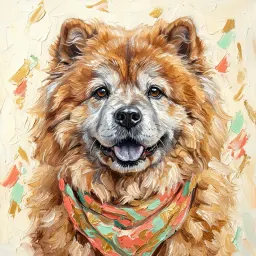
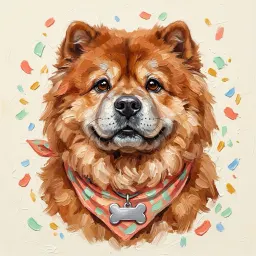
feat: 최종 유화 3장(프렌치불독 노령·차우차우 성견/아기) + 차우차우 노령 풀블리드로 교체, 옛 형식 캐릭터 해석 고정 (0.1.6)
- 새 그림: french-bulldog-senior, chow-chow, chow-chow-puppy → BREEDS 빈 칸 연결(차우차우 성견 칸 임시 비움 정리)
- chow-chow-senior.webp 는 같은 이름으로 풀블리드 재생성본 교체(저장 id 호환), 주소에 판 번호 ?v=2 로 브라우저 캐시 무효화
- 서비스워커 미리 받기는 cache: 'reload' 로 HTTP 캐시를 건너뜀, 미리 받기 31장
- 옛 형식 {종류}-{번호} 는 LEGACY_BREEDS(0.1.6-19 운영 표)로만 읽어 그림이 늘어도 불변(운영 대비 360가지 변동 0, 고정 안 하면 120가지 변동)
- 운영 해석 결과표 test/fixtures/legacy-avatar-0.1.6-19.json 으로 회귀 시험
- 캐시 쿼리 0.1.6-20, 서비스워커 v26

diff --git a/app.js b/app.js
@@ -1,4 +1,4 @@
-import { mountShelter } from './shelter.js?v=0.1.6-18';
+import { mountShelter } from './shelter.js?v=0.1.6-20';
 import { ROLE_LABEL, DAY_NOTE, policyText, nextLoginText } from './role-policy.js?v=0.1.6';
 // 꼬리길 모바일 웹. 로그인·세션은 frontend-book-walking/auth.js(= frontend-go-fishing/auth.js)를 그대로 쓴다(토큰은 sessionStorage, 서버가 만료 최종 판단).
 import { errText } from './errors.js?v=0.1.6';
@@ -65,15 +65,32 @@ const BREEDS = {
   saint_bernard:  { size: 'large',  brachy: true,  doubleCoat: true,  label: '세인트버나드', art: ['saint-bernard'], ages: { puppy: ['saint-bernard-puppy'], senior: ['saint-bernard-senior'] } },
   husky:          { size: 'large',  brachy: false, doubleCoat: true,  label: '허스키',       art: ['husky'], ages: { puppy: ['husky-puppy'], senior: ['husky-senior'] } },
   samoyed:        { size: 'large',  brachy: false, doubleCoat: true,  label: '사모예드',     art: [], ages: {} },
-  chow_chow:      { size: 'medium', brachy: true,  doubleCoat: true,  label: '차우차우',     art: [], ages: { senior: ['chow-chow-senior'] } }, // 성견·아기 그림은 아직 없음: 노령 그림을 성견 칸에 쓰지 않고 비워 둔다
+  chow_chow:      { size: 'medium', brachy: true,  doubleCoat: true,  label: '차우차우',     art: ['chow-chow'], ages: { puppy: ['chow-chow-puppy'], senior: ['chow-chow-senior'] } },
   jindo:          { size: 'medium', brachy: false, doubleCoat: true,  label: '진돗개',       art: [], ages: {} },
   shiba:          { size: 'medium', brachy: false, doubleCoat: true,  label: '시바',         art: ['shiba'], ages: { puppy: ['shiba-puppy'], senior: ['shiba-senior'] } },
-  french_bulldog: { size: 'small',  brachy: true,  doubleCoat: false, label: '프렌치불독',   art: ['french-bulldog'], ages: { puppy: ['french-bulldog-puppy'] } },
+  french_bulldog: { size: 'small',  brachy: true,  doubleCoat: false, label: '프렌치불독',   art: ['french-bulldog'], ages: { puppy: ['french-bulldog-puppy'], senior: ['french-bulldog-senior'] } },
   pug:            { size: 'small',  brachy: true,  doubleCoat: false, label: '퍼그',         art: ['pug'], ages: { puppy: ['pug-puppy'], senior: ['pug-senior'] } },
   shih_tzu:       { size: 'small',  brachy: true,  doubleCoat: true,  label: '시츄',         art: ['shih-tzu'], ages: { puppy: ['shih-tzu-puppy'], senior: ['shih-tzu-senior'] } },
   chihuahua:      { size: 'small',  brachy: false, doubleCoat: false, label: '치와와',       art: [], ages: {} },
   dachshund:      { size: 'small',  brachy: false, doubleCoat: false, label: '닥스훈트',     art: [], ages: {} }
 };
+// 옛 형식 {종류}-{1~5} 해석 고정(#34): 그림 이름 저장(#26)이 배포될 때의 운영 후보 표(97d1326~d4185b8, 0.1.6-17~19) 그대로.
+// 옛 형식 아이는 이 표로만 후보 순번을 읽으므로 위 BREEDS 에 그림이 늘어도 운영에서 보이던 그림이 바뀌지 않는다. 이 표는 고치지 말 것.
+const LEGACY_BREEDS = Object.freeze({
+  retriever:      { size: 'large',  brachy: false, doubleCoat: true,  label: '리트리버',     art: ['retriever'], ages: {} },
+  corgi:          { size: 'medium', brachy: false, doubleCoat: true,  label: '코기',         art: ['corgi'], ages: {} },
+  pomeranian:     { size: 'small',  brachy: false, doubleCoat: true,  label: '포메',         art: ['pomeranian'], ages: {} },
+  poodle:         { size: 'small',  brachy: false, doubleCoat: false, label: '푸들',         art: ['poodle'], ages: {} },
+  bichon:         { size: 'small',  brachy: false, doubleCoat: false, label: '비숑',         art: ['bichon'], ages: {} },
+  maltese:        { size: 'small',  brachy: false, doubleCoat: false, label: '말티즈',       art: ['maltese-1', 'maltese-4', 'maltese-5', 'maltese-2', 'maltese-3'], ages: {} },
+  saint_bernard:  { size: 'large',  brachy: true,  doubleCoat: true,  label: '세인트버나드', art: ['saint-bernard'], ages: { puppy: ['saint-bernard-puppy'], senior: ['saint-bernard-senior'] } },
+  husky:          { size: 'large',  brachy: false, doubleCoat: true,  label: '허스키',       art: ['husky'], ages: { puppy: ['husky-puppy'], senior: ['husky-senior'] } },
+  chow_chow:      { size: 'medium', brachy: true,  doubleCoat: true,  label: '차우차우',     art: [], ages: { senior: ['chow-chow-senior'] } },
+  shiba:          { size: 'medium', brachy: false, doubleCoat: true,  label: '시바',         art: ['shiba'], ages: { puppy: ['shiba-puppy'], senior: ['shiba-senior'] } },
+  french_bulldog: { size: 'small',  brachy: true,  doubleCoat: false, label: '프렌치불독',   art: ['french-bulldog'], ages: { puppy: ['french-bulldog-puppy'] } },
+  pug:            { size: 'small',  brachy: true,  doubleCoat: false, label: '퍼그',         art: ['pug'], ages: { puppy: ['pug-puppy'], senior: ['pug-senior'] } },
+  shih_tzu:       { size: 'small',  brachy: true,  doubleCoat: true,  label: '시츄',         art: ['shih-tzu'], ages: { puppy: ['shih-tzu-puppy'], senior: ['shih-tzu-senior'] } }
+});
 const ART_NAME = { 'maltese-2': '말티 달리기', 'maltese-3': '말티 갸우뚱', 'maltese-4': '말티 윙크', 'maltese-5': '말티 리본' };
 const DEFAULT_CARICATURE = 'retriever'; // 모르는 값은 대표 마스코트
 const SIZE_RANK = { small: 0, medium: 1, large: 2 }, SIZE_KO = { small: '소형', medium: '중형', large: '대형' }, AGE_KO = { puppy: '강아지', adult: '성견', senior: '노령견' };
@@ -81,10 +98,10 @@ const AGE_PREFIX = { puppy: '아기 ', senior: '어르신 ' };
 /** 4가지 특성 → 후보(최대 5). 크기가 최우선: 크기가 두 단계 다르면(소형↔대형) 절대 넣지 않고, 같은 크기 → 한 단계 차이 순.
  *  그다음 단두종·이중모가 맞는 견종, 나이 전용 그림 순. 견종마다 대표 1장을 먼저 고르고 남는 칸만 같은 견종의 다른 그림으로 채운다.
  *  같은·이웃 크기 그림이 5장이 안 되면 다른 크기로 채우지 않고 후보 수를 줄인다. */
-function characterCandidates(d = {}) {
+function characterCandidates(d = {}, table = BREEDS) {
   const size = SIZE_RANK[d.size] != null ? d.size : 'medium', age = AGE_KO[d.age] ? d.age : 'adult';
   const flat = Boolean(d.flatFace), coat = Boolean(d.thickCoat), list = [];
-  for (const [order, [id, b]] of Object.entries(BREEDS).entries()) {
+  for (const [order, [id, b]] of Object.entries(table).entries()) {
     const gap = Math.abs(SIZE_RANK[b.size] - SIZE_RANK[size]); if (gap > 1) continue;
     // 그 나이 전용 그림이 있으면 그것만(같은 견종의 성견 그림 + 나이 변형을 또 넣지 않음), 없으면 성견 그림을 나이 변형으로
     const own = b.ages?.[age] ?? [], arts = own.length ? own : b.art; if (!arts.length) continue;
@@ -96,7 +113,7 @@ function characterCandidates(d = {}) {
   const tier = x => x.gap * 2 + (x.rank > 0 ? 1 : 0);
   list.sort((x, y) => tier(x) - tier(y) || y.score - x.score || x.order - y.order);
   return list.slice(0, 5).map(x => ({ art: x.art, breed: x.breed, ageVariant: x.dedicated ? null : (age === 'adult' ? null : age), ageBadge: age === 'adult' ? null : age,
-    label: (age === 'adult' ? '' : AGE_PREFIX[age]) + (ART_NAME[x.art] ?? BREEDS[x.breed].label) })); // 전용 그림도 '아기'·'어르신' 이름(은빛 필터는 변형에만)
+    label: (age === 'adult' ? '' : AGE_PREFIX[age]) + (ART_NAME[x.art] ?? table[x.breed].label) })); // 전용 그림도 '아기'·'어르신' 이름(은빛 필터는 변형에만)
 }
 const comboLabel = d => [SIZE_KO[d.size] ?? '중형', AGE_KO[d.age] ?? '성견', d.flatFace ? '단두종' : '', d.thickCoat ? '이중모' : ''].filter(Boolean).join(' · ');
 const kindOf = d => d?.flatFace ? 'flat' : d?.thickCoat ? 'coat' : (['small', 'medium', 'large'].includes(d?.size) ? d.size : 'medium');
@@ -111,13 +128,14 @@ function artEntry(art, d = {}) {
   return { art, breed, ageVariant: dedicated || age === 'adult' ? null : age, ageBadge: age === 'adult' ? null : age, label: (age === 'adult' ? '' : AGE_PREFIX[age]) + (ART_NAME[art] ?? b.label) };
 }
 const DEFAULT_CHARACTER = { art: DEFAULT_CARICATURE, breed: 'retriever', label: '리트리버', ageVariant: null };
-/** 저장 id → 보여 줄 그림. 그림 이름이면 그 그림 그대로(후보 순서와 무관), 옛 형식이면 그 아이 특성의 후보 중 그 순번(후보가 적으면 1번) */
+/** 저장 id → 보여 줄 그림. 그림 이름이면 그 그림 그대로(후보 순서와 무관), 옛 형식이면 고정된 옛 후보 표(LEGACY_BREEDS)에서 그 순번(후보가 적으면 1번) */
 const characterFor = d => {
-  const c = characterCandidates(d);
-  if (isArtId(d?.avatar)) return c.find(x => x.art === d.avatar) ?? artEntry(d.avatar, d) ?? c[0] ?? DEFAULT_CHARACTER;
-  const n = Number(avatarId(d).slice(-1)) || 1; return c[n - 1] ?? c[0] ?? DEFAULT_CHARACTER;
+  if (isArtId(d?.avatar)) { const c = characterCandidates(d); return c.find(x => x.art === d.avatar) ?? artEntry(d.avatar, d) ?? c[0] ?? DEFAULT_CHARACTER; }
+  const c = characterCandidates(d, LEGACY_BREEDS), n = Number(avatarId(d).slice(-1)) || 1; return c[n - 1] ?? c[0] ?? DEFAULT_CHARACTER;
 };
-const caricatureSrc = name => `assets/caricatures/${Object.values(BREEDS).some(b => b.art.includes(name) || Object.values(b.ages ?? {}).flat().includes(name)) ? name : DEFAULT_CARICATURE}.webp`;
+// 같은 이름으로 그림 파일을 교체했을 때(이름 = 저장 id 라 바꿀 수 없음) 브라우저 캐시의 옛 그림을 쓰지 않게 주소에 판 번호를 붙인다. 교체할 때마다 +1
+const ART_REV = { 'chow-chow-senior': 2 };
+const caricatureSrc = name => { const n = Object.values(BREEDS).some(b => b.art.includes(name) || Object.values(b.ages ?? {}).flat().includes(name)) ? name : DEFAULT_CARICATURE; return `assets/caricatures/${n}.webp${ART_REV[n] ? '?v=' + ART_REV[n] : ''}`; };
 const AGE_BADGE = { puppy: '아기', senior: '어르신' };
 const avatar = (d, cls = '') => { const ch = characterFor(d); return `<span class="dog-ava ${cls}${ch.ageVariant ? ' age-' + ch.ageVariant : ''}" aria-hidden="true"><img src="${caricatureSrc(ch.art)}" alt="" width="96" height="96" loading="lazy" decoding="async">${AGE_BADGE[d?.age] ? `<i class="ava-badge">${AGE_BADGE[d.age]}</i>` : ''}</span>`; };
 const dogFull = () => dogs.length >= dogOptions.maxDogs;

diff --git a/sw.js b/sw.js
@@ -1,9 +1,9 @@
 // 앱 셸만 캐시(오프라인 첫 화면). API 응답은 캐시하지 않는다(날씨는 항상 최신 조회).
-const CACHE = 'tailtrail-shell-v25';
-// 캐리커처 22장(합계 약 330KB)은 처음 설치할 때 함께 받아 둔다(오프라인에서도 아이 그림이 보이게)
-const CARICATURES = ['maltese-1', 'maltese-2', 'maltese-3', 'maltese-4', 'maltese-5', 'poodle', 'pomeranian', 'corgi', 'bichon', 'retriever', 'saint-bernard', 'saint-bernard-puppy', 'saint-bernard-senior', 'pug', 'pug-puppy', 'pug-senior', 'shih-tzu', 'shih-tzu-puppy', 'shih-tzu-senior', 'husky', 'husky-puppy', 'husky-senior', 'shiba', 'shiba-puppy', 'shiba-senior', 'french-bulldog', 'french-bulldog-puppy', 'chow-chow-senior'].map(n => `./assets/caricatures/${n}.webp`);
+const CACHE = 'tailtrail-shell-v26';
+// 캐리커처 31장(합계 약 450KB)은 처음 설치할 때 함께 받아 둔다(오프라인에서도 아이 그림이 보이게)
+const CARICATURES = ['maltese-1', 'maltese-2', 'maltese-3', 'maltese-4', 'maltese-5', 'poodle', 'pomeranian', 'corgi', 'bichon', 'retriever', 'saint-bernard', 'saint-bernard-puppy', 'saint-bernard-senior', 'pug', 'pug-puppy', 'pug-senior', 'shih-tzu', 'shih-tzu-puppy', 'shih-tzu-senior', 'husky', 'husky-puppy', 'husky-senior', 'shiba', 'shiba-puppy', 'shiba-senior', 'french-bulldog', 'french-bulldog-puppy', 'french-bulldog-senior', 'chow-chow', 'chow-chow-puppy', 'chow-chow-senior'].map(n => `./assets/caricatures/${n}.webp`);
 const SHELL = ['./', './manifest.webmanifest', './assets/icon.svg', ...CARICATURES];
-self.addEventListener('install', e => e.waitUntil(caches.open(CACHE).then(c => c.addAll(SHELL)).then(() => self.skipWaiting())));
+self.addEventListener('install', e => e.waitUntil(caches.open(CACHE).then(c => c.addAll(SHELL.map(u => new Request(u, { cache: 'reload' })))).then(() => self.skipWaiting())));
 self.addEventListener('activate', e => e.waitUntil(caches.keys().then(ks => Promise.all(ks.filter(k => k !== CACHE).map(k => caches.delete(k)))).then(() => self.clients.claim())));
 self.addEventListener('fetch', e => {
   const u = new URL(e.request.url);

diff --git a/index.html b/index.html
@@ -15,7 +15,7 @@
   <link rel="preconnect" href="https://fonts.gstatic.com" crossorigin>
   <link rel="stylesheet" href="https://cdn.jsdelivr.net/gh/orioncactus/pretendard@v1.3.9/dist/web/variable/pretendardvariable-dynamic-subset.min.css">
   <link href="https://fonts.googleapis.com/css2?family=Noto+Sans+KR:wght@400;500;700;800&display=swap" rel="stylesheet">
-  <link rel="stylesheet" href="style.css?v=0.1.6-18">
+  <link rel="stylesheet" href="style.css?v=0.1.6-20">
 </head>
 <body>
   <!-- 로그인 -->
@@ -193,7 +193,7 @@
   </div>
   <script src="config.js?v=0.1.6"></script>
   <script src="telemetry.js?v=0.1.6"></script>
-  <script src="app.js?v=0.1.6-19" type="module"></script>
+  <script src="app.js?v=0.1.6-20" type="module"></script>
   <script src="visit.js?v=0.1.6" type="module"></script>
 </body>
 </html>
